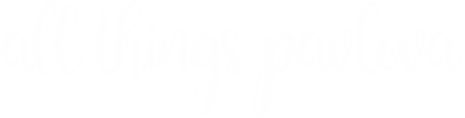
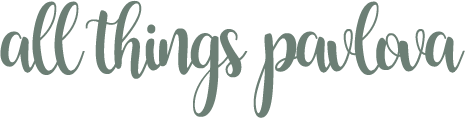
green

Changed region(s): [[0.0, 0.0, 1.0, 1.0]]

diff --git a/assignment1.css b/assignment1.css
@@ -7,7 +7,7 @@ html {
 }
 
 body {
-	background:url(images/pavlova-detail.jpg);
+	background:url(images/pavlova-whole.jpg);
 	background-repeat: no-repeat;
 	background-size:cover;
 	background-position: center center;
@@ -23,7 +23,7 @@ nav[role="banner"] {
 	padding-top: 15px;
 	padding-bottom: 5px;
 	width: 100%;
-	background: rgba(255, 204, 255, 0.8);
+	background: rgba(204, 255, 204, 0.9);
 
 }
 
@@ -45,7 +45,7 @@ nav[role="banner"] ul {
 nav[role="banner"] li a {
 	font-family: Helvetica, sans-serif;
 	font-weight: bold;
-	color: #FFFFFF;
+	color: #6C7F75;
 	/*background-color: #FFCCFF;*/
 	text-decoration:none;
 	-o-transition:.5s;
@@ -66,6 +66,7 @@ main{
 	text-align:center;
 	color: #FFFFFF;
 	margin:20px;
+	font-weight: bold;
 }
 
 footer {
@@ -78,7 +79,7 @@ footer {
 	right: 0;
 	bottom: 0;
 	left: 0;
-	background: rgba(204, 255, 204, 1);
+	background: rgba(204, 255, 204, 0.9);
 	color: #D1D0CE;
 	padding: 7px;
 }

diff --git a/index.html b/index.html
@@ -24,7 +24,7 @@ Chris Kelly (n8102597)
 		</ul>
 	</nav>
 	<main>
-	box here
+	box text
 	</main>
 </div>
 <footer>
